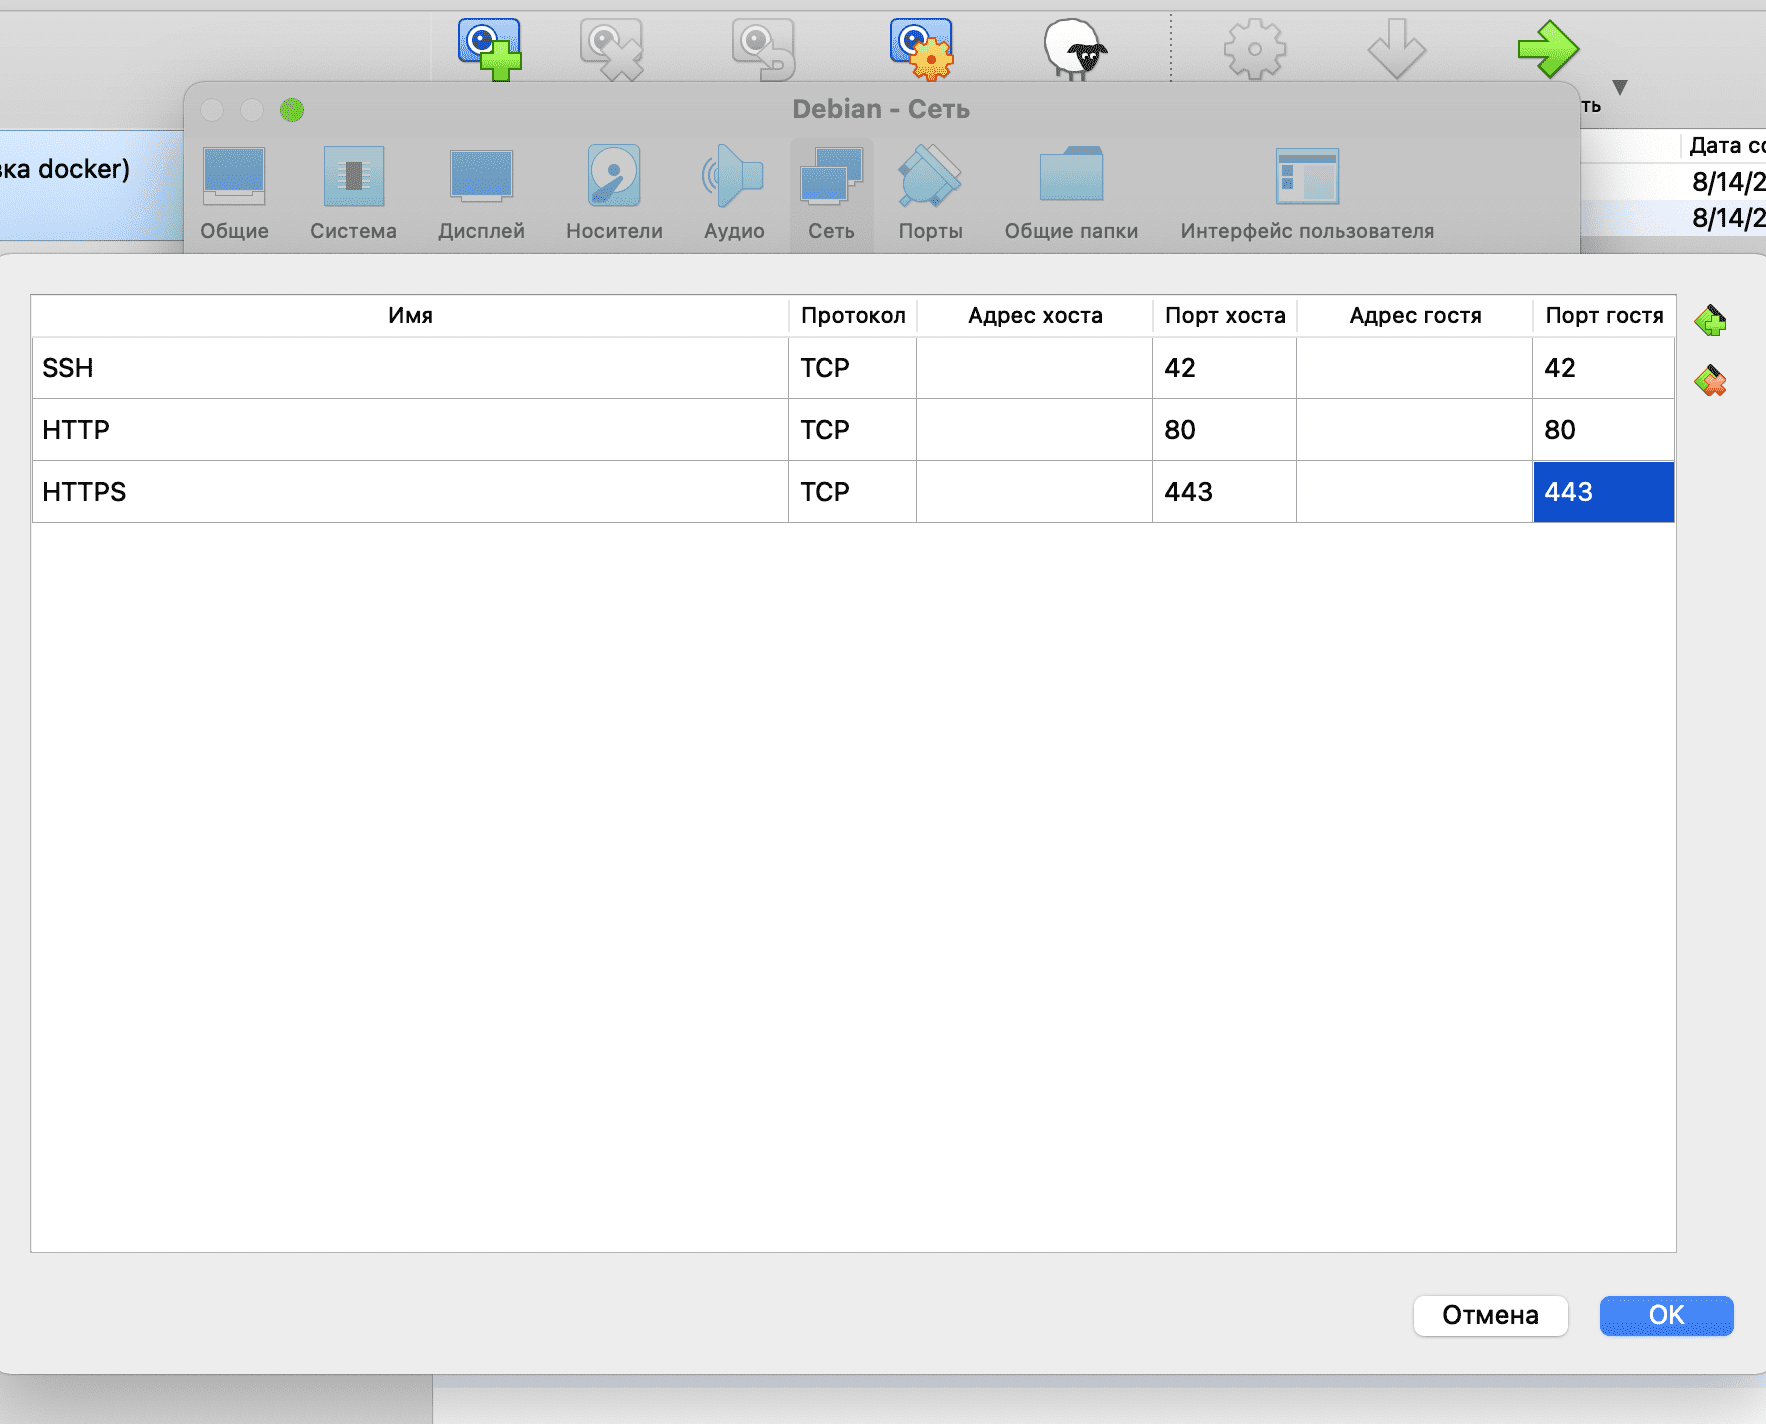
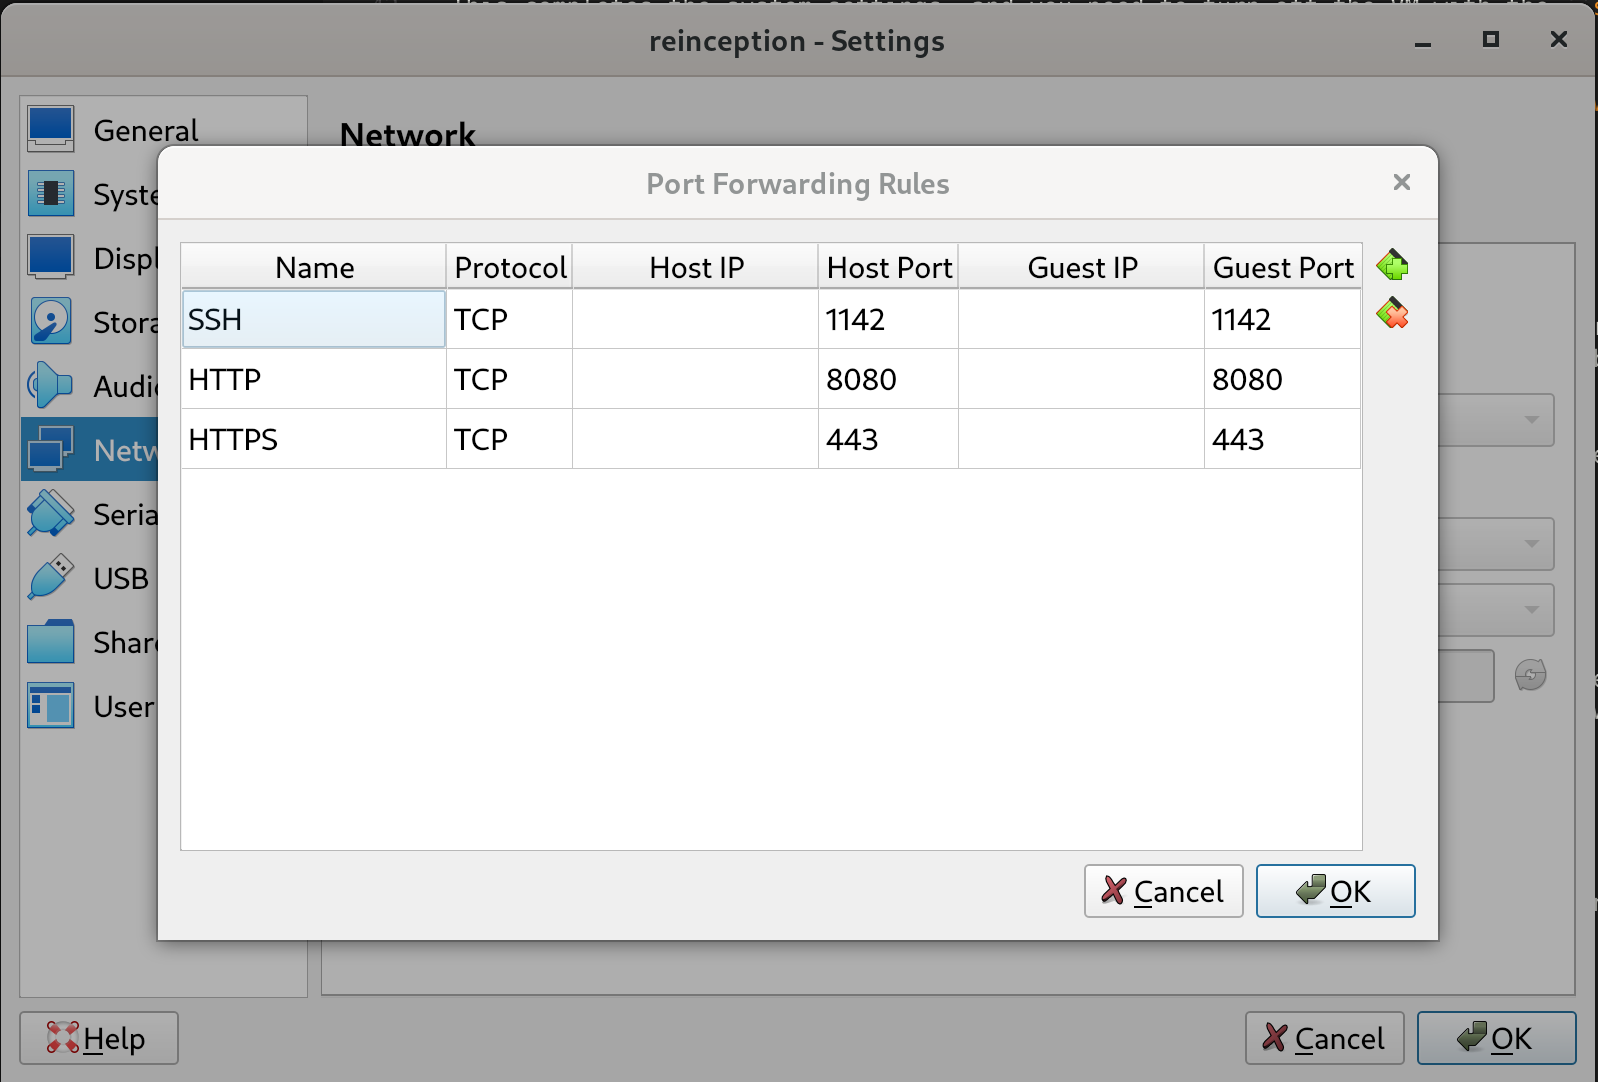
27-02_42M - VM rebuilt to stick to 42 VBox version - Inception stand-alone repo created - develop stage will happen there - Images in russian changed till step 05 - Minor translation changes in first steps and some comments added

diff --git a/CURSUS/inception/README.md b/CURSUS/inception/README.md
@@ -3,29 +3,31 @@
 *(!) Work in progress (!)*
 This is an ongoing work of translation of the guide by codesshaman at https://github.com/codesshaman/inception/tree/main?tab=readme-ov-file. 
 
+> Currently stopped developing in this repository, most recent changes and undergoing work in this repository https://github.com/pgomez-r/inception I will update here only once the project is totally finished.
+
 This guide is divided into several steps ordered as they should be learnt (or studied, you could say) and done.
 
 ## Project steps
 
 Brief info about the stages of the project:
 
-- [] Installing the OS in virtualbox - [guide 00](https://github.com/pgomez-r/42M/tree/main/CURSUS/inception/guide/00_INSTALL_SYSTEM.md "Installing the OS in virtualbox")
-- [] Installing software inside the OS - [guide 01](https://github.com/pgomez-r/42M/tree/main/CURSUS/inception/guide/01_INSTALL_SOFT.md "Installing software inside the OS")
-- [] Port forwarding to the host - [guide 02](https://github.com/pgomez-r/42M/tree/main/CURSUS/inception/guide/02_PORTS_FORWARDING.md "Forwarding ports to the host")
-- [] Saving snapshots to the cloud - [guide 03](https://github.com/pgomez-r/42M/tree/main/CURSUS/inception/guide/03_CLOUD_STORAGE.md "Saving snapshots to the cloud")
-- [] Pre-setup - [guide 04](https://github.com/pgomez-r/42M/tree/main/CURSUS/inception/guide/04_FIRST_SETTINGS.md "Pre-setup")
-- [] Certificate Installation - [guide 05](https://github.com/pgomez-r/42M/tree/main/CURSUS/inception/guide/05_INSTALL_CERTIFICATE.md "Installing the certificate")
-- [] Creating a Makefile - [guide 06](https://github.com/pgomez-r/42M/tree/main/CURSUS/inception/guide/06_MAKEFILE_CREATION.md "Creating a Makefile")
-- [] nginx Deployment - [guide 07](https://github.com/pgomez-r/42M/tree/main/CURSUS/inception/guide/07_DOCKER_NGINX.md "nginx Deployment")
-- [] mariadb Deployment - [guide 08](https://github.com/pgomez-r/42M/tree/main/CURSUS/inception/guide/08_DOCKER_MARIADB.md "mariadb Deployment")
-- [] wordpress Deployment - [guide 09](https://github.com/pgomez-r/42M/tree/main/CURSUS/inception/guide/09_DOCKER_WORDPRESS.md "Wordpress Deployment")
+- [X] Installing the OS in virtualbox - [guide 00](https://github.com/pgomez-r/42M/tree/main/CURSUS/inception/guide/00_INSTALL_SYSTEM.md "Installing the OS in virtualbox")
+- [X] Installing software inside the OS - [guide 01](https://github.com/pgomez-r/42M/tree/main/CURSUS/inception/guide/01_INSTALL_SOFT.md "Installing software inside the OS")
+- [ ] Port forwarding to the host - [guide 02](https://github.com/pgomez-r/42M/tree/main/CURSUS/inception/guide/02_PORTS_FORWARDING.md "Forwarding ports to the host")
+- [ ] Saving snapshots to the cloud - [guide 03](https://github.com/pgomez-r/42M/tree/main/CURSUS/inception/guide/03_CLOUD_STORAGE.md "Saving snapshots to the cloud")
+- [ ] Pre-setup - [guide 04](https://github.com/pgomez-r/42M/tree/main/CURSUS/inception/guide/04_FIRST_SETTINGS.md "Pre-setup")
+- [ ] Certificate Installation - [guide 05](https://github.com/pgomez-r/42M/tree/main/CURSUS/inception/guide/05_INSTALL_CERTIFICATE.md "Installing the certificate")
+- [ ] Creating a Makefile - [guide 06](https://github.com/pgomez-r/42M/tree/main/CURSUS/inception/guide/06_MAKEFILE_CREATION.md "Creating a Makefile")
+- [ ] nginx Deployment - [guide 07](https://github.com/pgomez-r/42M/tree/main/CURSUS/inception/guide/07_DOCKER_NGINX.md "nginx Deployment")
+- [ ] mariadb Deployment - [guide 08](https://github.com/pgomez-r/42M/tree/main/CURSUS/inception/guide/08_DOCKER_MARIADB.md "mariadb Deployment")
+- [ ] wordpress Deployment - [guide 09](https://github.com/pgomez-r/42M/tree/main/CURSUS/inception/guide/09_DOCKER_WORDPRESS.md "Wordpress Deployment")
 
 ***BONUS PART***
 
-- [] Redis Installation - [guide 10](https://github.com/pgomez-r/42M/tree/main/CURSUS/inception/guide/10_WORDPRESS_REDIS.md "Installing Redis")
-- [] Installing vsftpd - [guide 11](https://github.com/pgomez-r/42M/tree/main/CURSUS/inception/guide/11_VSFTPD_SERVER.md "Installing vsftpd")
-- [] Installing Adminler - [guide 12](https://github.com/pgomez-r/42M/tree/main/CURSUS/inception/guide/12_INSTALL_ADMINER.md "Install Adminler")
-- [] Install portainer - guide [guide 13](https://github.com/pgomez-r/42M/tree/main/CURSUS/inception/guide/13_PORTAINER_INSTALL.md "Installing the portainer")
+- [ ] Redis Installation - [guide 10](https://github.com/pgomez-r/42M/tree/main/CURSUS/inception/guide/10_WORDPRESS_REDIS.md "Installing Redis")
+- [ ] Installing vsftpd - [guide 11](https://github.com/pgomez-r/42M/tree/main/CURSUS/inception/guide/11_VSFTPD_SERVER.md "Installing vsftpd")
+- [ ] Installing Adminler - [guide 12](https://github.com/pgomez-r/42M/tree/main/CURSUS/inception/guide/12_INSTALL_ADMINER.md "Install Adminler")
+- [ ] Install portainer - guide [guide 13](https://github.com/pgomez-r/42M/tree/main/CURSUS/inception/guide/13_PORTAINER_INSTALL.md "Installing the portainer")
 
 For a deeper understanding of Docker:
 https://ivan-shamaev.ru/docker-compose-tutorial-container-image-install/

diff --git a/CURSUS/inception/guide/00_INSTALL_SYSTEM.md b/CURSUS/inception/guide/00_INSTALL_SYSTEM.md
@@ -6,9 +6,11 @@ The original guide this translation follows uses a light version of debian witho
 
 Also, some of the following steps may differ from what you get while installing the OS in your VM, depeding on the OS that you chose, but the important thing is to know the minimum or recommended settings for your VM.
 
+> (!)TIP: If you are going to set you VM in a external memory or even on the cloud, so you can work in different places and devices, it is strongly recommended to always use the same exact version of VirtualBox when doing so. Otherwise, you may face several compatibilty problems. Version 7.0.18 is the current version installed in 42 Málaga as I write this guide (27/02/2025).
+
 ## Step 1. Download
 
-Go to the [official website](https://www.debian.org / "download debian") and download the web installer
+Go to https://www.debian.org and download the ISO image for the OS.
 
 ## Step 2. Launch
 
@@ -16,31 +18,21 @@ Go to the [official website](https://www.debian.org / "download debian") and dow
 
 Create a virtual machine. We call our project something (I just called it inception) and set the correct system configuration. If the project is being done on a 42 School device, its folder should be placed in sgoinfre:
 
-![virtualbox setup](media/install_debian/install_step_1.jpeg )
+![virtualbox setup](media/install_debian/install_step_1.png )
+
+![virtualbox setup](media/install_debian/install_step_1-1.png )
 
 ### 2.2 Resources setting
 
-RAM for the project can be allocated from 512MB (if your PC has 4 GB RAM) to 4096MB (if your device has 16GB or even more RAM). It is pointless to allocate more than 4 GB of memory for this project.
+RAM for the project can be allocated from 512MB (if your PC has 4 GB RAM) to 4096MB (if your device has 16GB or even more RAM). It is pointless to allocate more than 4 GB of memory for this project. Also you can add more cores, but there is not real need to do so:
 
-![virtualbox setup](media/install_debian/install_step_2.jpeg )
+![virtualbox setup](media/install_debian/install_step_2.png )
 
-The format we choose is VDI or VHD:
+The format we choose is VDI or VHD (newer versions of VBox won't ask for this), and we allocate between 8 and 12 GB for the disk:
 
 ![virtualbox setup](media/install_debian/install_step_3.png)
 
-Select a dynamic format and allocate 8 gigabytes for the disk.
-
-![virtualbox setup](media/install_debian/install_step_4.png)
-
-Also, do not forget to set a convenient screen resolution (zoom level) if you are working on MAC (200% or 300% is usually fine for this):
-
-![zoom level](media/install_debian/install_step_5.png)
-
-### 2.3 Allocation of processor resources
-
-You can also add more cores to the system. Adding more than four is redundant, no need at all:
-
-![CPU](media/install_debian/install_step_6.png)
+Also, do not forget to set a convenient screen resolution (zoom level) if you are working on MAC you will need 200-300%, for Linux system about 120-150% seems to be fine:
 
 ## Step 3. Installation
 

diff --git a/CURSUS/inception/guide/02_PORTS_FORWARDING.md b/CURSUS/inception/guide/02_PORTS_FORWARDING.md
@@ -8,15 +8,22 @@ Log in as superuser and open the file ``/etc/ssh/sshd_config``
 
 All that happens next is unsafe settings for the virtual guest system, do not repeat on vps servers!
 
-Following most guides, now we would change the port to 42. But in 42Málaga, ports 42 and 22 are currently occupied. Then, ignore what you see in the following image and use a port of your choosing, in my case, I will use 43. Allow logging in under the superuser
+Following most guides, now we would change the port to 42. But in 42Málaga, ports 42 and 22 are currently occupied. Then, ignore what you see in the following images and use a port of your choosing, in my case, I will use 1142. 
+
+Allow logging in under the superuser:
 
 ![redocting ssh config](media/ports_forwarding/step_1.png)
 
-We disable the login with the key (generally optional, but I did) and confirm the login with the password.:
+We disable the login with the key (generally optional, but I did) and confirm the login with the password:
 
 ![ssh config editing](media/ports_forwarding/step_2.png)
 
 After that, we save the configuration and restart ssh and sshd services (in general, sshd is enough, but we get into the habit of doing both to be sure):
+
+```
+service ssh restart
+service sshd restart
+```
 
 ![ssh restart](media/ports_forwarding/step_3.png)
 
@@ -24,7 +31,7 @@ After that, we save the configuration and restart ssh and sshd services (in gene
 
 In the `system installation` step, we have already installed the ufw firewall..
 
-Next, we need to open our port 43 for ssh in the firewall, as well as ports 80 and 443 for the website.
+Next, we need to open our port 1142 for ssh in the firewall, as well as ports 80 and 443 for the website. Port 443 is mandatory by subject, in my case I use 8080 instead of 80 to avoid security warnings in my personal PC, but you should have no problems to use it.
 
 First, we launch our firewall with the command ``ufw enable``, then we allow each port with the command ``ufw allow N`', where N is the port number:
 
@@ -42,7 +49,9 @@ The `shutdown` command will shut down the server in a minute, so we use `shutdow
 
 It's not enough to open ports on the guest machine, you also need to redirect traffic from the host machine to the guest machine. Traffic traveling on certain ports must be redirected by forwarding ports from the guest machine to the host machine.
 
-In Virtualbox, go to settings -> network -> advanced -> port forwarding, and specify the following rules (change 42 port for the one you chose before):
+In Virtualbox, go to *setting/network/advanced/port forwarding*, and specify the following rules (change 42 port for the one you chose before):
+
+![port forwarding](media/ports_forwarding/step_6_0.png)
 
 ![port forwarding](media/ports_forwarding/step_6.png)
 

diff --git a/CURSUS/inception/guide/01_INSTALL_SOFT.md b/CURSUS/inception/guide/01_INSTALL_SOFT.md
@@ -26,7 +26,7 @@ Update the repositories with the `apt update` command:
 
 After that, we will install the applications we need with the following command:
 
-```apt install -y sudo ufw openssh-server docker docker-compose make openbox xinit kitty firefox-esr```
+```apt install -y sudo ufw openssh-server docker docker-compose make vim openbox xinit kitty firefox-esr```
 
 We will enter this command manually, since it is impossible to copy-paste into a virtual machine. Later, we will open the ports and connect to the VM via the console, as to a local server.
 
@@ -47,6 +47,18 @@ When installing, we will see output like this:
 ![software installation](media/install_soft/install_step_6.png)
 
 It means that we did everything right. At the end of the installation, we will see the console output again.
+
+### Step 3.1. Updating PATH in env variables
+
+In some cases, depending on the OS image you installed, you may need to update your PATH env variable to correctly "find" some commands, to do so:
+
+- Open your shell's configuration file in any text editor or using vim/nano. If your shell is bash open `~/.bashrc` , if your shell is zsh open `~/.zshrc`. (Note that `~` refers to your home directory).
+
+- Add line `export PATH="$PATH:/usr/sbin"` . The path `/usr/sbin` is just the most common example, but your location might be different. (If so, try to navigate through your directories until you find sbin folder, which will contain folders and files relative to terminal commands - ls, cat..)
+
+- Save the file, exit and run `source ~/.zshrc` or `source ~/.bashrc` to make the current terminal to "notice" the changes.
+
+**(From this point, the steps are only needed if your OS has no integrated GUI)**
 
 Now let's check the software we have installed. First, let's launch the openbox graphical environment.
 

diff --git a/CURSUS/inception/guide/04_FIRST_SETTINGS.md b/CURSUS/inception/guide/04_FIRST_SETTINGS.md
@@ -72,7 +72,7 @@ After a while, our container will crash and we will see a message about a succes
 
 This means that we can test the running container and the correct configuration settings. Open the browser of the host machine to check it.
 
-If we did everything correctly in step 02 during port forwarding, then port 80 is open, and by logging into the browser at the local host address ``http://127.0.0.1 `` (*exactly http, not https!*) we will see the following picture:
+If we did everything correctly in step 02 during port forwarding, then port 80 is open (if you set HTTP rule to a different port, you will need to edit docker-compose.yml to match that port), and by logging into the browser at the local host address ``http://127.0.0.1 `` (*exactly http, not https!*) we will see the following picture:
 
 ![Docker Configuration](media/setting_docker/step_4.png)
 
@@ -147,5 +147,3 @@ After that, you can run it.:
 ``./make_directories.sh``
 
 And that's it, all the directories of our project (and even some necessary files in them) have been created!
-
-![system installation](media/stickers/e.png)

diff --git a/CURSUS/inception/guide/03_CLOUD_STORAGE.md b/CURSUS/inception/guide/03_CLOUD_STORAGE.md
@@ -2,8 +2,6 @@
 
 When working on a project, there may be a need to transfer the configuration to another computer. This may seem silly when you can do everything with the same PC and do not worry. But if that is not the case, the portability of the project becomes a very useful feature.
 
-![system installation](media/stickers/foundation.png)
-
 For this project, you could use your phone, USB stick, SSD, or cloud. Any alternative realted to use an external memory it would be as easy as copy and paste all needed files into it. In case you want or need to use an alternative way, here we will see how to store the project on the cloud.
 
 No matter the method you use to keep your files save, something you do need to learn is how to create snapshots of the system state, and save the system with them. Let's start with that.

diff --git a/CURSUS/inception/guide/05_INSTALL_CERTIFICATE.md b/CURSUS/inception/guide/05_INSTALL_CERTIFICATE.md
@@ -4,8 +4,6 @@
 
 According to the assignment, we need to install a self-signed ssl certificate and work on port 443, as well as change our domain name to username.42.fr . Let's start with a self-signed certificate - SSL.
 
-![system installation](media/stickers/ensign.png)
-
 Self-signed certificates are usually used for local development. And to generate a self-signed certificate, it is very convenient to use the mkcert utility.
 
 Update the list of repositories:
